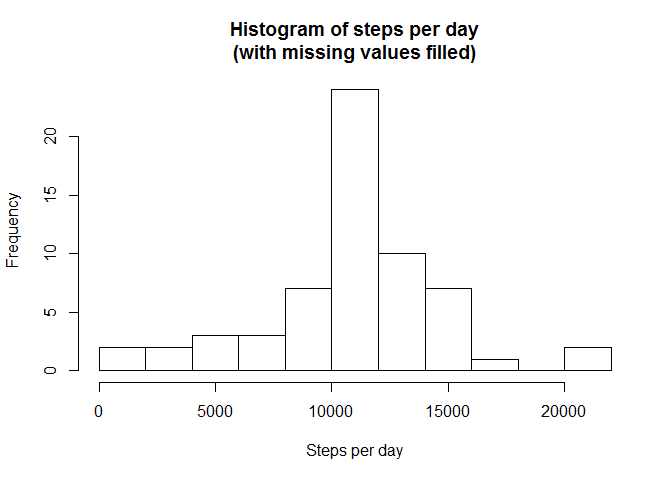
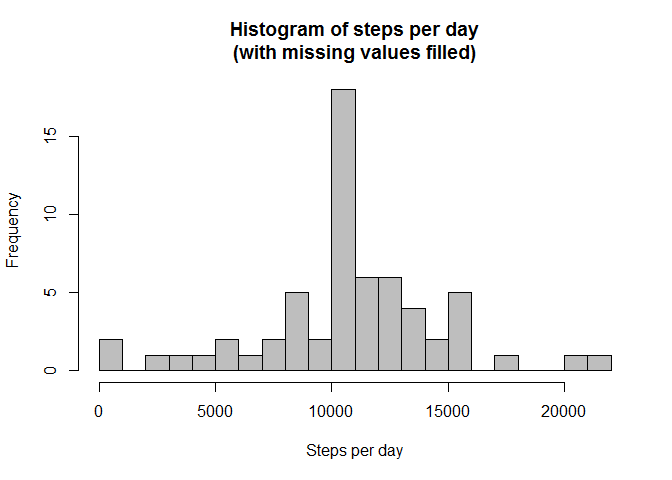
update

diff --git a/PA1_template.html b/PA1_template.html
@@ -91,8 +91,8 @@ total.per.day &lt;- activity %&gt;% group_by(date) %&gt;% summarise(total=sum(st
 
 # 2. Draw histogram
 hist(total.per.day$total, main=&quot;Histogram of steps per day&quot;, 
-     xlab=&quot;Steps per day&quot;, breaks=10)</code></pre>
[1 lines of base64/hex data omitted]
+     xlab=&quot;Steps per day&quot;, breaks=20, col=&quot;gray&quot;)</code></pre>
[1 lines of base64/hex data omitted]
 <pre class="r"><code># 3. Calculate mean steps per day - remove days without data
 mean.per.day &lt;- mean(total.per.day$total, na.rm=TRUE)</code></pre>
 <p><strong>The mean is 9354.23</strong></p>
@@ -132,8 +132,8 @@ total.per.day.filled &lt;- activity.filled %&gt;% group_by(date) %&gt;% summaris
 
 # Draw histogram
 hist(total.per.day.filled$total, main=&quot;Histogram of steps per day\n(with missing values filled)&quot;, 
-     xlab=&quot;Steps per day&quot;, breaks=10)</code></pre>
[1 lines of base64/hex data omitted]
+     xlab=&quot;Steps per day&quot;, breaks=20, col=&quot;gray&quot;)</code></pre>
[1 lines of base64/hex data omitted]
 <pre class="r"><code># Calculate new mean and median using filled data
 mean.per.day.filled &lt;- mean(total.per.day$total)
 median.per.day.filled &lt;- median(total.per.day$total)</code></pre>

diff --git a/PA1_template.md b/PA1_template.md
@@ -40,7 +40,7 @@ total.per.day <- activity %>% group_by(date) %>% summarise(total=sum(steps, na.r
 
 # 2. Draw histogram
 hist(total.per.day$total, main="Histogram of steps per day", 
-     xlab="Steps per day", breaks=10)
+     xlab="Steps per day", breaks=20, col="gray")
 ```
 
 ![](PA1_template_files/figure-html/unnamed-chunk-2-1.png) 
@@ -103,7 +103,7 @@ total.per.day.filled <- activity.filled %>% group_by(date) %>% summarise(total=s
 
 # Draw histogram
 hist(total.per.day.filled$total, main="Histogram of steps per day\n(with missing values filled)", 
-     xlab="Steps per day", breaks=10)
+     xlab="Steps per day", breaks=20, col="gray")
 ```
 
 ![](PA1_template_files/figure-html/unnamed-chunk-6-1.png) 
